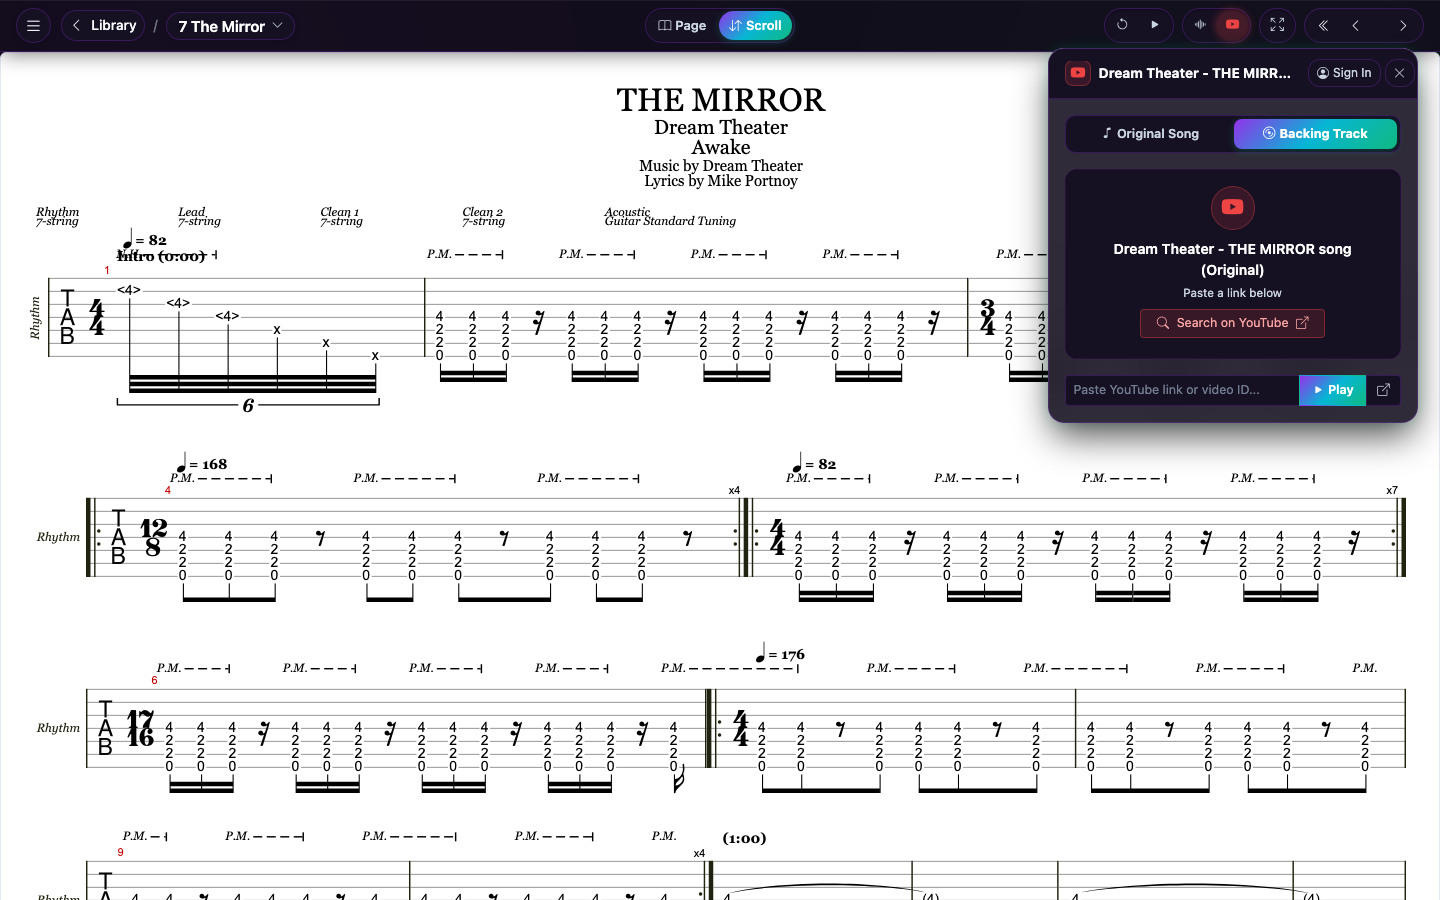
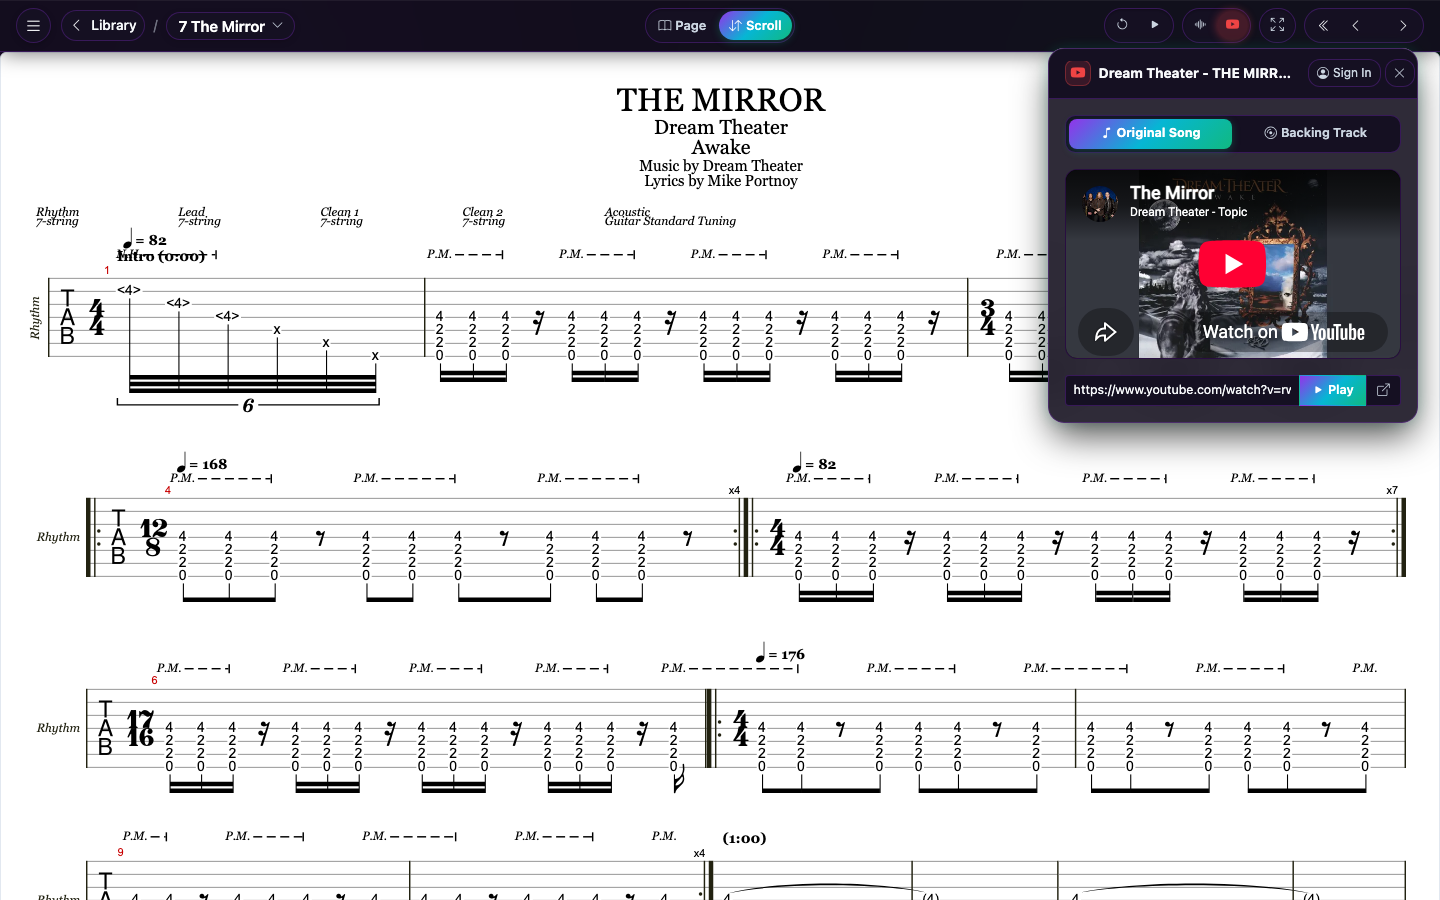
Fix YouTube player screenshot capture and embed resolution

Changed region(s): [[0.7188, 0.1244, 1.0, 0.4356]]

diff --git a/tools/generate_screenshots.py b/tools/generate_screenshots.py
@@ -181,6 +181,7 @@ def main():
     parser = argparse.ArgumentParser(description=__doc__, formatter_class=argparse.RawDescriptionHelpFormatter)
     parser.add_argument("--only", nargs="*", help="Only capture these shot names")
     parser.add_argument("--backup-file", default=str(DEFAULT_BACKUP), help="Path to .mtbackup file")
+    parser.add_argument("--base-url", default=None, help="Custom base URL (e.g. https://majestictab.zathu.net)")
     args = parser.parse_args()
 
     try:
@@ -189,7 +190,11 @@ def main():
         raise SystemExit("Playwright not installed: pip install playwright && playwright install chromium")
 
     OUT_DIR.mkdir(parents=True, exist_ok=True)
-    httpd, base_url = start_server()
+    httpd = None
+    if args.base_url:
+        base_url = args.base_url.rstrip("/")
+    else:
+        httpd, base_url = start_server()
     print(f"[server] {base_url}")
 
     def wanted(name):
@@ -199,11 +204,18 @@ def main():
 
     try:
         with sync_playwright() as p:
-            browser = p.chromium.launch(headless=True, args=["--disable-dev-shm-usage", "--no-sandbox"])
+            browser = p.chromium.launch(
+                headless=True,
+                args=["--disable-dev-shm-usage", "--no-sandbox", "--disable-blink-features=AutomationControlled"]
+            )
             for vp_name, vp, is_mobile, scale, suffix in VIEWPORTS:
                 print(f"[{vp_name}] {vp['width']}x{vp['height']}")
                 context = browser.new_context(
-                    viewport=vp, is_mobile=is_mobile, has_touch=is_mobile, device_scale_factor=scale
+                    viewport=vp,
+                    is_mobile=is_mobile,
+                    has_touch=is_mobile,
+                    device_scale_factor=scale,
+                    user_agent="Mozilla/5.0 (Macintosh; Intel Mac OS X 10_15_7) AppleWebKit/537.36 (KHTML, like Gecko) Chrome/130.0.0.0 Safari/537.36"
                 )
                 context.add_init_script("""
                     try {
@@ -309,31 +321,21 @@ def main():
 
                 # 7. YouTube Player Drawer: Dream Theater - The Mirror with embed loaded
                 if wanted("youtube_player"):
-                    if has_backup:
-                        load_stored_tab(page, base_url, "7 The Mirror.gp", "continuous")
+                    yt_base_url = "https://majestictab.zathu.net" if ("127.0.0.1" in base_url or "localhost" in base_url) else base_url
+                    yt_has_backup = has_backup
+                    if yt_base_url != base_url and backup_path.exists():
+                        yt_has_backup = restore_backup(page, yt_base_url, backup_path)
+
+                    if yt_has_backup:
+                        load_stored_tab(page, yt_base_url, "7 The Mirror.gp", "continuous")
                     else:
-                        load_file(page, base_url, GP_FILE, "continuous")
+                        load_file(page, yt_base_url, GP_FILE, "continuous")
                     page.click("#ytToggleBtn")
-                    page.wait_for_timeout(1000)
-                    page.evaluate("""() => {
-                        const vid = 'SA5q9KL7XGA';
-                        const ifr = document.getElementById('ytIframe');
-                        if (ifr) {
-                            ifr.src = `https://www.youtube.com/embed/${vid}`;
-                            ifr.style.display = 'block';
-                        }
-                        const loadInd = document.getElementById('ytLoadingIndicator');
-                        if (loadInd) loadInd.style.setProperty('display', 'none', 'important');
-                        const prompt = document.getElementById('ytPlaceholderPrompt');
-                        if (prompt) prompt.style.setProperty('display', 'none', 'important');
-                        const title = document.getElementById('ytPanelTitle');
-                        if (title) title.textContent = 'Dream Theater - The Mirror (Backing Track)';
-                        const inp = document.getElementById('ytSearchInput');
-                        if (inp) inp.value = `https://www.youtube.com/watch?v=${vid}`;
-                        const backingRadio = document.getElementById('ytTrackBacking');
-                        if (backingRadio) backingRadio.checked = true;
-                    }""")
-                    page.wait_for_timeout(4000)
+                    try:
+                        page.wait_for_selector("#ytIframe[data-loaded='true']", timeout=15000)
+                    except Exception as e:
+                        print(f"  [youtube_player warning] wait for embed timed out: {e}")
+                    page.wait_for_timeout(3500)
                     save("youtube_player")
 
                 # 8. Game Controller Modal: Haken - 1985
